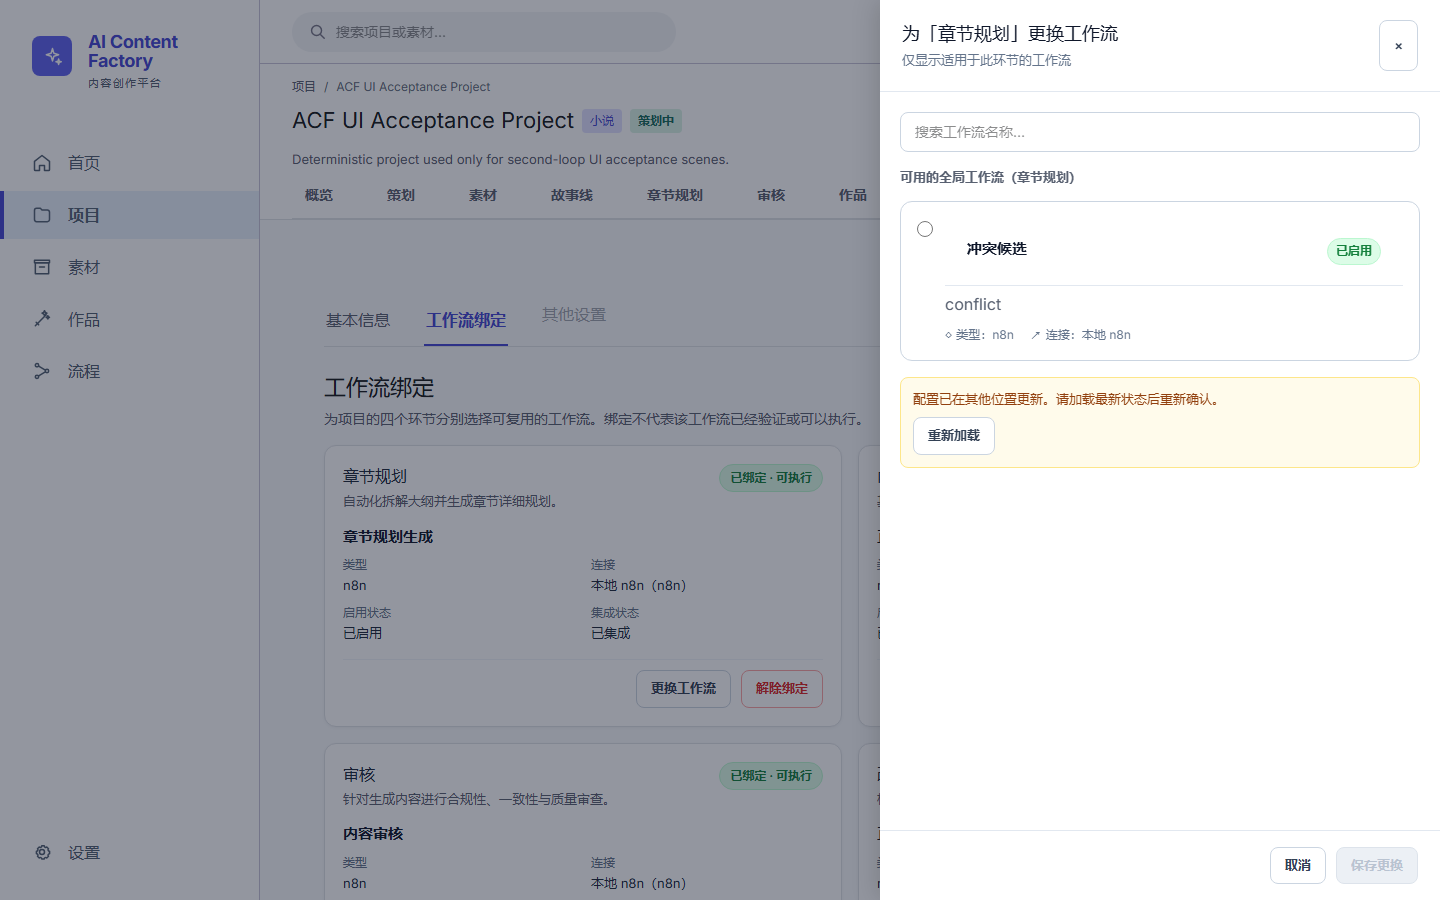
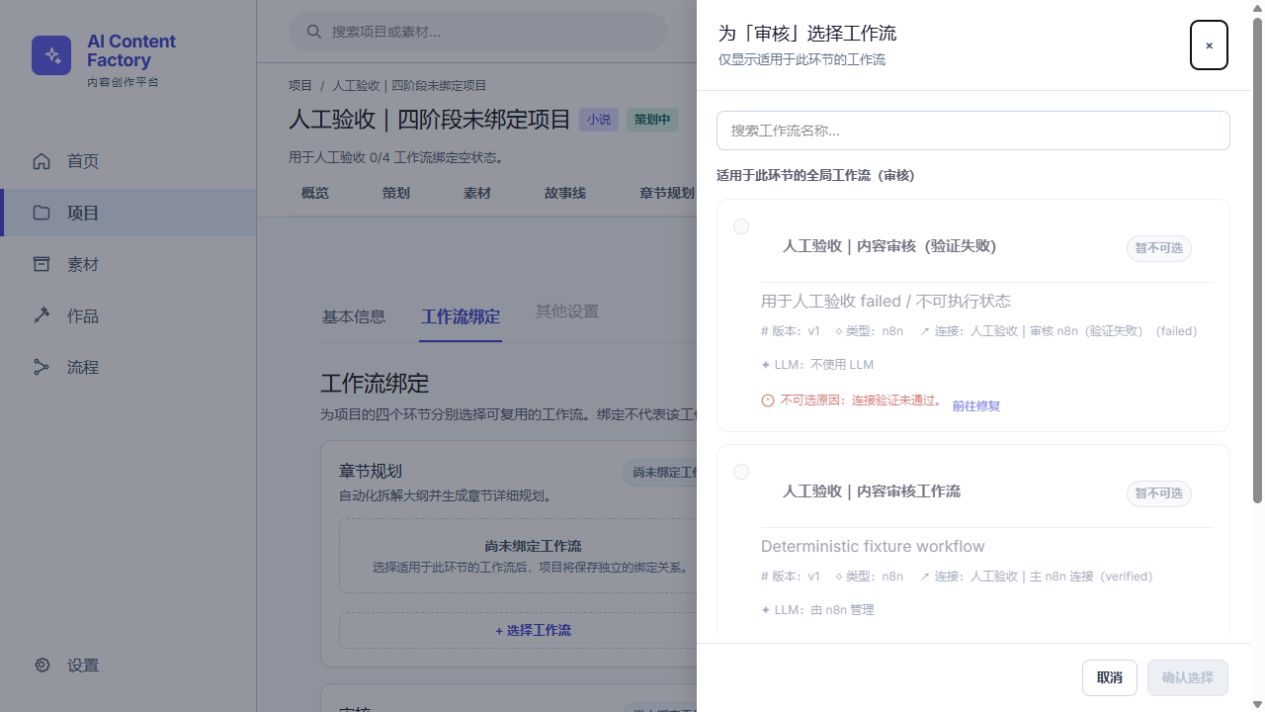
fix(workflow-bindings): close UI-021 conflict review

diff --git a/apps/web/src/features/workflow-bindings/workflow-bindings-page.tsx b/apps/web/src/features/workflow-bindings/workflow-bindings-page.tsx
@@ -79,19 +79,19 @@ function BindingCard({item,onSelect,onUnbind}:{item:BindingStage;onSelect:()=>vo
 }
 
 function WorkflowDrawer({projectId,drawer,onClose,onSaved}:{projectId:string;drawer:Exclude<Drawer,null>;onClose:()=>void;onSaved:()=>Promise<void>}){
-  const [query,setQuery]=useState(""),[candidates,setCandidates]=useState<WorkflowBindingCandidate[]|null>(null),[error,setError]=useState(false),[selected,setSelected]=useState(drawer.stage.workflowConfigurationSummary?.id??""),[saving,setSaving]=useState(false),[conflict,setConflict]=useState(false);
+  const [query,setQuery]=useState(""),[candidates,setCandidates]=useState<WorkflowBindingCandidate[]|null>(null),[error,setError]=useState(false),[stage,setStage]=useState(drawer.stage),[selected,setSelected]=useState(drawer.stage.workflowConfigurationSummary?.id??""),[selectedName,setSelectedName]=useState(drawer.stage.workflowConfigurationSummary?.name??""),[saving,setSaving]=useState(false),[conflict,setConflict]=useState(false),[reloadingConflict,setReloadingConflict]=useState(false),[conflictReloadError,setConflictReloadError]=useState(false),[conflictResolved,setConflictResolved]=useState<"preserved"|"cleared"|null>(null);
   const key=useRef(newIdempotencyKey());
   const drawerRef=useRef<HTMLElement>(null);
 
   const load=useCallback(async(signal?:AbortSignal)=>{
     setError(false);
     try{
-      const data=await listWorkflowBindingCandidates(projectId,drawer.stage.stage,query,{signal});
+      const data=await listWorkflowBindingCandidates(projectId,stage.stage,query,{signal});
       if(!signal?.aborted)setCandidates(data.items);
     }catch{
       if(!signal?.aborted)setError(true);
     }
-  },[drawer.stage.stage,projectId,query]);
+  },[projectId,query,stage.stage]);
 
   useEffect(()=>{
     const c=new AbortController();
@@ -123,16 +123,42 @@ function WorkflowDrawer({projectId,drawer,onClose,onSaved}:{projectId:string;dra
     return()=>panel.removeEventListener("keydown",trap);
   },[]);
 
-  const currentId = drawer.stage.workflowConfigurationSummary?.id ?? "";
+  const currentId = stage.workflowConfigurationSummary?.id ?? "";
   const isReplace = drawer.mode === "replace";
-  const submitDisabled = !selected || saving || (isReplace && selected === currentId);
+  const submitDisabled = !selected || saving || conflict || reloadingConflict || (isReplace && selected === currentId);
+
+  const reloadLatestState=async()=>{
+    setReloadingConflict(true);
+    setConflictReloadError(false);
+    try{
+      const [bindings,latestCandidates]=await Promise.all([
+        listProjectWorkflowBindings(projectId),
+        listWorkflowBindingCandidates(projectId,stage.stage,query),
+      ]);
+      const latestStage=bindings.items.find(item=>item.stage===stage.stage)??{stage:stage.stage,bound:false,binding:null,workflowConfigurationSummary:null};
+      const latestSelected=latestCandidates.items.find(candidate=>candidate.workflowConfiguration.id===selected);
+      const selectedStillAvailable=Boolean(latestSelected?.selectable);
+      setStage(latestStage);
+      setCandidates(latestCandidates.items);
+      setSelected(current=>current&&selectedStillAvailable?current:"");
+      setSelectedName(latestSelected?.selectable?latestSelected.workflowConfiguration.name:"");
+      setConflictResolved(selectedStillAvailable?"preserved":"cleared");
+      setConflict(false);
+    }catch{
+      setConflictReloadError(true);
+    }finally{
+      setReloadingConflict(false);
+    }
+  };
 
   const submit=async()=>{
     if(submitDisabled)return;
     setSaving(true);
     setConflict(false);
+    setConflictResolved(null);
+    setConflictReloadError(false);
     try{
-      await bindWorkflow(projectId,drawer.stage.stage,selected,drawer.stage.binding?.version,key.current);
+      await bindWorkflow(projectId,stage.stage,selected,stage.binding?.version,key.current);
       await onSaved();
     }catch(e){
       if(e instanceof ApiError&&e.code.toLowerCase()==="version_conflict")setConflict(true);
@@ -193,7 +219,7 @@ function WorkflowDrawer({projectId,drawer,onClose,onSaved}:{projectId:string;dra
                       value={w.id}
                       checked={isSelected}
                       disabled={disabled}
-                      onChange={() => { if (!disabled) setSelected(w.id); }}
+                      onChange={() => { if (!disabled) {setSelected(w.id);setSelectedName(w.name)} }}
                     />
                     <div className="candidate-body">
                       <header className="candidate-header">
@@ -227,19 +253,29 @@ function WorkflowDrawer({projectId,drawer,onClose,onSaved}:{projectId:string;dra
               })}
             </div>
           )}
-          {conflict && (
-            <div className="workflow-conflict" role="alert">
-              <p>当前绑定已更新，未覆盖服务端数据。你的选择仍被保留。</p>
-              <button onClick={async()=>{await load();setConflict(false)}}>加载最新状态后重新确认</button>
-            </div>
-          )}
         </div>
         <footer>
           <button onClick={onClose} disabled={saving}>取消</button>
           <button className="primary" disabled={submitDisabled} onClick={submit}>
-            {saving ? "保存中…" : isReplace ? "保存更换" : "确认选择"}
+            {saving ? "保存中…" : conflictResolved&&selected ? "重新确认选择" : isReplace ? "保存更换" : "确认选择"}
           </button>
         </footer>
+        {conflict && (
+          <div className="workflow-conflict-overlay" role="presentation">
+            <section className="workflow-conflict-dialog" role="alertdialog" aria-modal="true" aria-labelledby="workflow-conflict-title">
+              <div className="workflow-conflict-icon" aria-hidden="true">!</div>
+              <h3 id="workflow-conflict-title">绑定配置已被其他操作更新</h3>
+              <p>当前页面内容可能已经过期。重新加载最新配置后再继续。</p>
+              <dl><div><dt>你刚才选择</dt><dd>{selectedName||"未选择工作流"}</dd></div></dl>
+              {conflictReloadError&&<p className="workflow-conflict-reload-error" role="alert">最新状态加载失败，请重试。</p>}
+              <footer>
+                <button onClick={onClose} disabled={reloadingConflict}>取消</button>
+                <button className="primary" onClick={()=>void reloadLatestState()} disabled={reloadingConflict}>{reloadingConflict?"加载中…":"加载最新配置"}</button>
+              </footer>
+            </section>
+          </div>
+        )}
+        {conflictResolved&&<p className="workflow-conflict-resolution" role="status">{conflictResolved==="preserved"?"已加载最新绑定信息，请重新确认你的选择。":"已加载最新绑定信息；原选择已不可用，请重新选择工作流。"}</p>}
       </aside>
     </div>
   );

diff --git a/apps/web/src/app/globals.css b/apps/web/src/app/globals.css
@@ -479,6 +479,10 @@ button,a { -webkit-tap-highlight-color:transparent; }
 .workflow-conflict{margin-top:16px;border:1px solid #fde68a;border-radius:8px;padding:12px;background:#fffbeb}
 .workflow-conflict p{margin:0;font-size:13px;color:#92400e}
 .workflow-conflict button{margin-top:8px}
+.workflow-conflict-overlay{position:absolute;z-index:2;inset:0;display:grid;place-items:center;padding:24px;background:rgba(248,249,253,.82);backdrop-filter:blur(2px)}
+.workflow-conflict-dialog{width:min(380px,100%);border:1px solid #cbd5e1;border-radius:12px;padding:24px;background:#fff;box-shadow:0 18px 36px rgba(15,23,42,.2);text-align:center}
+.workflow-conflict-dialog h3{margin:0;color:#0f172a;font-size:18px}.workflow-conflict-dialog>p{margin:10px 0 0;color:#64748b;font-size:13px;line-height:1.55}.workflow-conflict-icon{display:grid;width:44px;height:44px;margin:0 auto 14px;place-items:center;border-radius:50%;color:#b42318;background:#fee4e2;font-size:24px;font-weight:800;box-shadow:0 0 0 8px rgba(254,228,226,.55)}
+.workflow-conflict-dialog dl{margin:18px 0 0;border:1px solid #e2e8f0;border-radius:8px;padding:10px 12px;text-align:left;background:#f8fafc}.workflow-conflict-dialog dl div{display:grid;gap:4px}.workflow-conflict-dialog dt{color:#64748b;font-size:11px}.workflow-conflict-dialog dd{margin:0;overflow:hidden;color:#0f172a;font-size:13px;font-weight:700;text-overflow:ellipsis;white-space:nowrap}.workflow-conflict-dialog footer{justify-content:stretch;margin-top:20px;padding-top:0;border-top:0}.workflow-conflict-dialog footer button{flex:1;margin:0}.workflow-conflict-dialog .workflow-conflict-reload-error{margin-top:12px;color:#b42318;font-weight:600}.workflow-conflict-resolution{position:absolute;right:22px;bottom:76px;left:22px;z-index:1;margin:0;border:1px solid #c7d3ff;border-radius:8px;padding:9px 11px;color:#284ebd;background:#edf1ff;font-size:12px;line-height:18px}
 .workflow-unbind-dialog{position:relative;width:min(440px,calc(100vw - 32px));border-radius:12px;padding:24px;background:#fff;box-shadow:0 10px 25px rgba(0,0,0,.15)}
 .workflow-unbind-dialog h2{margin:0 0 10px;font-size:18px;color:#0f172a}
 .workflow-unbind-dialog p{color:#475569;line-height:1.5;margin:0 0 8px;font-size:14px}

diff --git a/apps/web/src/features/workflow-bindings/workflow-binding-candidates.test.ts b/apps/web/src/features/workflow-bindings/workflow-binding-candidates.test.ts
@@ -7,7 +7,7 @@ const page = readFileSync(new URL("./workflow-bindings-page.tsx", import.meta.ur
 
 test("workflow binding drawer loads evaluated candidates instead of the generic workflow list", () => {
   assert.match(api, /\/workflow-bindings\/\$\{stage\}\/candidates/);
-  assert.match(page, /listWorkflowBindingCandidates\(projectId,drawer\.stage\.stage,query/);
+  assert.match(page, /listWorkflowBindingCandidates\(projectId,stage\.stage,query/);
   assert.doesNotMatch(page, /listApplicableWorkflows\(/);
 });
 
@@ -24,4 +24,24 @@ test("workflow binding drawer renders actual eligibility facts and blocks unsele
     assert.ok(page.includes(value), `missing ${value}`);
   }
   assert.doesNotMatch(page, /onClick=\{\(e\) => \{ if \(disabled\) e\.preventDefault\(\); \}\}/);
+});
+
+test("workflow binding conflict preserves the selection and refreshes both binding and candidates", () => {
+  for (const value of [
+    "Promise.all([",
+    "listProjectWorkflowBindings(projectId)",
+    "listWorkflowBindingCandidates(projectId,stage.stage,query)",
+    "setStage(latestStage)",
+    "selectedStillAvailable",
+    "selectedName",
+    'role="alertdialog"',
+    "绑定配置已被其他操作更新",
+    "你刚才选择",
+    "加载最新配置",
+    "重新确认选择",
+    "stage.binding?.version",
+  ]) {
+    assert.ok(page.includes(value), `missing ${value}`);
+  }
+  assert.doesNotMatch(page, /workflow-conflict" role="alert"/);
 });
